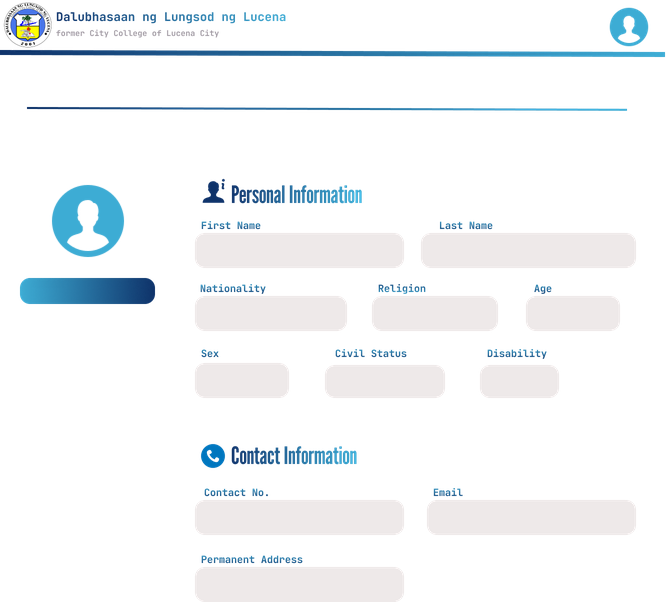
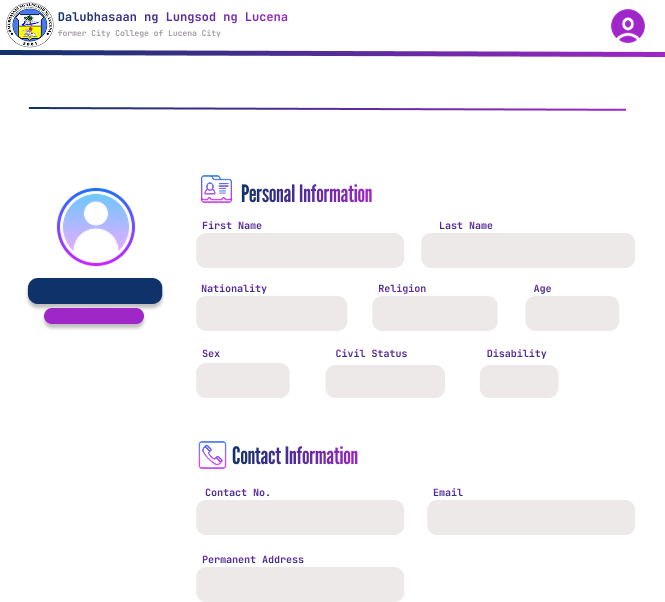
beta 1.1

diff --git a/beta 0.3/gui.py b/beta 0.3/gui.py
@@ -81,18 +81,19 @@ entry_bg_1 = canvas.create_image(
     318.0,
     image=entry_image_1
 )
-# Type (Facilitator or Attendee)
+# Type (Name)
 entry_1 = Entry(
     bd=0,
-    bg="#FFFFFF",
-    fg="#000716",
+    bg="#0E3269",
+    fg="#FFFFFF",
+    font= ("JetBrains Mono", 7),
     highlightthickness=0
 )
 entry_1.place(
-    x=46.0,
-    y=312.0,
-    width=85.0,
-    height=10.0
+    x=32.0,
+    y=287.0,
+    width=121.0,
+    height=13.0
 )
 
 button_image_4 = PhotoImage(file="beta 0.3\\assets\\frame0\\button_4.png")
@@ -112,29 +113,24 @@ button_4.place(
 
 image_image_3 = PhotoImage(file="beta 0.3\\assets\\frame0\\image_3.png")
 image_3 = canvas.create_image(
-    334.0,
+    331.0,
     303.0,
     image=image_image_3
 )
 
-entry_image_2 = PhotoImage(file="beta 0.3\\assets\\frame0\\entry_2.png")
-entry_bg_2 = canvas.create_image(
-    87.5,
-    292.5,
-    image=entry_image_2
-)
-# Entry Name near at profile
+# Entry attendee or facilitator
 entry_2 = Entry(
     bd=0,
-    bg="#EEE9E9",
-    fg="#000716",
+    bg="#9F26C7",
+    fg="#FFFFFF",
+    font= ("JetBrains Mono", 6),
     highlightthickness=0
 )
 entry_2.place(
-    x=27.0,
-    y=285.0,
-    width=121.0,
-    height=13.0
+    x=49.0,
+    y=312.0,
+    width=85.0,
+    height=10.0
 )
 
 entry_image_3 = PhotoImage(file="beta 0.3\\assets\\frame0\\entry_3.png")
